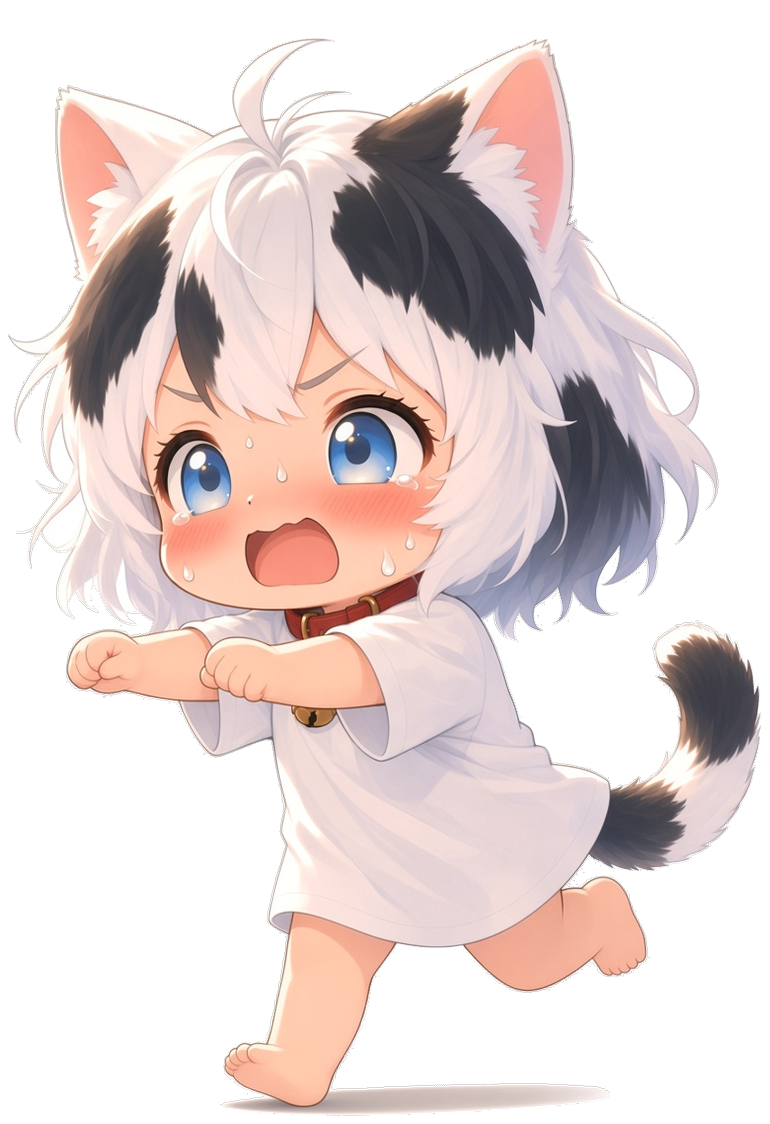
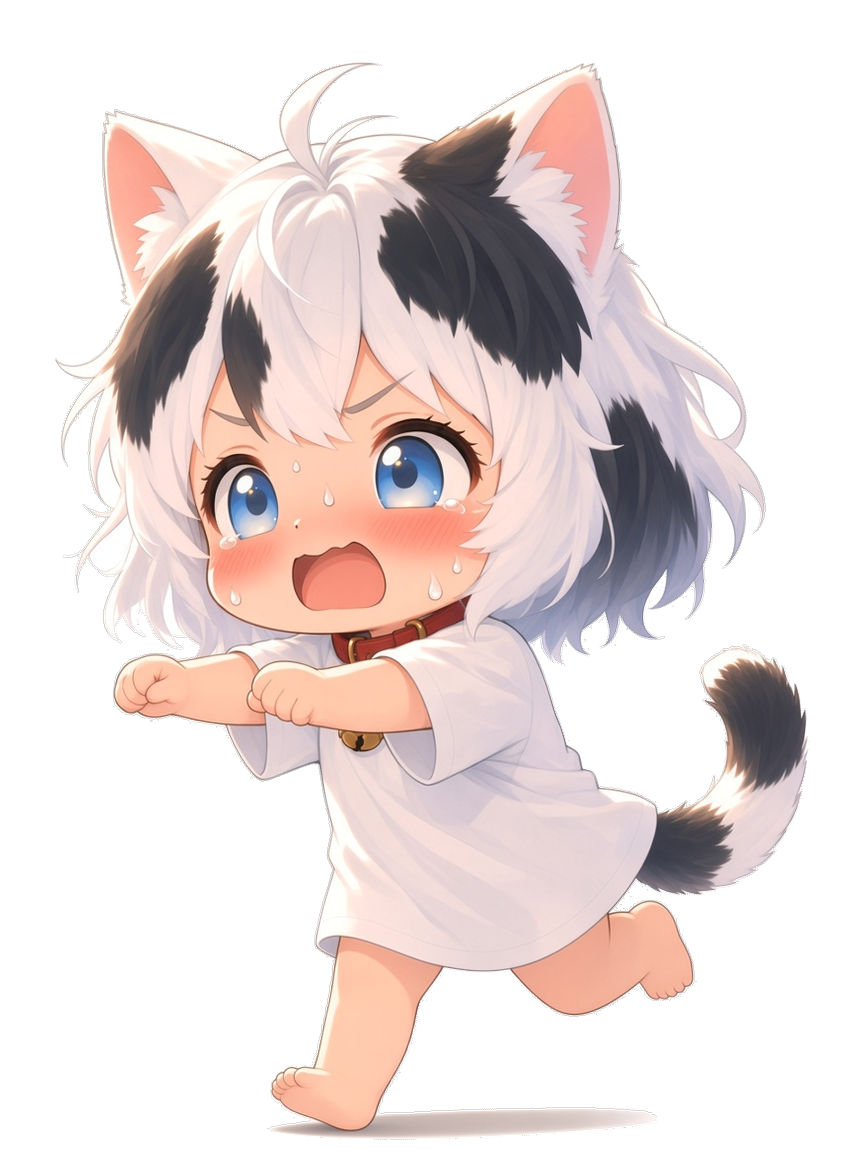
日常把走跑贴纸垫进站姿画布，并改阳台落点和呼吸。

diff --git a/养成游戏-迷你猫娘-小委屈/web/app.js b/养成游戏-迷你猫娘-小委屈/web/app.js
@@ -73,16 +73,16 @@
     bow: "assets/bow-a.png?v=1",
   };
   var WALK_CYCLE = [
-    "assets/walk-1.png?v=step2",
-    "assets/walk-3.png?v=step2",
+    "assets/walk-1.png?v=pad1",
+    "assets/walk-3.png?v=pad1",
   ];
   var RUN_CYCLE = [
-    "assets/run-1.png?v=qrun1",
-    "assets/run-2.png?v=qrun1",
-    "assets/run-3.png?v=qrun1",
-    "assets/run-4.png?v=qrun1",
+    "assets/run-1.png?v=pad1",
+    "assets/run-2.png?v=pad1",
+    "assets/run-3.png?v=pad1",
+    "assets/run-4.png?v=pad1",
   ];
-  var PANT_CYCLE = ["assets/pant-a.png?v=run1", "assets/pant-b.png?v=run1"];
+  var PANT_CYCLE = ["assets/pant-a.png?v=pad1", "assets/pant-b.png?v=pad1"];
   var BOW_CYCLE = ["assets/bow-a.png?v=1", "assets/bow-b.png?v=1"];
   var BOW_FRAME_MS = 340;
   var STAND_CYCLE = ["assets/stand.png?v=head1", "assets/stand-b.png?v=head1"];

diff --git a/养成游戏-迷你猫娘-小委屈/web/index.html b/养成游戏-迷你猫娘-小委屈/web/index.html
@@ -4,7 +4,7 @@
     <meta charset="utf-8" />
     <meta name="viewport" content="width=device-width, initial-scale=1" />
     <title>小委屈 · 日常</title>
-    <link rel="stylesheet" href="style.css?v=map31" />
+    <link rel="stylesheet" href="style.css?v=map32" />
   </head>
   <body>
     <div class="wrap">
@@ -116,7 +116,7 @@
       </div>
     </div>
     <script src="life.js?v=map19"></script>
-    <script src="house.js?v=map22"></script>
+    <script src="house.js?v=map23"></script>
     <script src="app.js?v=map44"></script>
   </body>
 </html>

diff --git a/养成游戏-迷你猫娘-小委屈/web/style.css b/养成游戏-迷你猫娘-小委屈/web/style.css
@@ -217,7 +217,7 @@ body {
 .girl-breath {
   display: block;
   transform-origin: 50% 92%;
-  animation: chibi-breathe 2.8s cubic-bezier(0.37, 0, 0.63, 1) infinite;
+  animation: chibi-breathe 5.6s cubic-bezier(0.37, 0, 0.63, 1) infinite;
   backface-visibility: hidden;
 }
 
@@ -276,10 +276,10 @@ body {
 @keyframes chibi-breathe {
   0%,
   100% {
-    transform: translateY(0.35%) scale(1.012, 0.988);
+    transform: scale(1.012, 0.988);
   }
   50% {
-    transform: translateY(-1.8%) scale(0.988, 1.012);
+    transform: scale(0.988, 1.012);
   }
 }
 

diff --git a/养成游戏-迷你猫娘-小委屈/web/house.js b/养成游戏-迷你猫娘-小委屈/web/house.js
@@ -40,12 +40,12 @@
       girlLieW: "16%",
       map: { x: 52, y: 76 },
       spots: {
-        center: { x: 50, y: 50 },
+        center: { x: 58, y: 64 },
         pot: { x: 72, y: 58 },
         corner: { x: 32, y: 58 },
-        door: { x: 50, y: 62 },
+        door: { x: 32, y: 78 },
       },
-      floor: { x0: 30, y0: 48, x1: 80, y1: 74 },
+      floor: { x0: 28, y0: 56, x1: 76, y1: 80 },
       gate: { x: 8, y: 78, w: 84, h: 22, to: "living", label: "回客厅" },
     },
   };

diff --git a/养成游戏-迷你猫娘-小委屈/web/check_stickers.py b/养成游戏-迷你猫娘-小委屈/web/check_stickers.py
@@ -1,0 +1,212 @@
+"""日常贴纸画布。站姿 864×1152 是尺子。
+
+竖着的贴纸（站、走、跑、坐、喘气、作揖）必须同一张画布。
+网页按宽度铺图，画布一窄、一高，人就会被撑大。
+
+新图先做成 864×1152 透明底，脚离底大约 12px，头宽跟 stand.png 接近。
+已经裁窄的图可以：
+
+    python check_stickers.py --normalize
+
+检查：
+
+    python check_stickers.py
+    python -m unittest check_stickers
+"""
+
+from __future__ import annotations
+
+import argparse
+import sys
+import unittest
+from pathlib import Path
+
+from PIL import Image, ImageDraw
+
+ASSETS = Path(__file__).resolve().parent / "assets"
+CANVAS = (864, 1152)
+FOOT_INSET = 12
+FOOT_INSET_MIN = 4
+FOOT_INSET_MAX = 24
+ALPHA = 12
+HEAD_FRAC = 0.38
+HEAD_TOL = 0.12
+
+UPRIGHT = [
+    "stand.png",
+    "stand-b.png",
+    "sit.png",
+    "sit-b.png",
+    "walk-1.png",
+    "walk-3.png",
+    "run-1.png",
+    "run-2.png",
+    "run-3.png",
+    "run-4.png",
+    "pant-a.png",
+    "pant-b.png",
+    "bow-a.png",
+    "bow-b.png",
+]
+
+
+def load(name: str) -> Image.Image:
+    return Image.open(ASSETS / name).convert("RGBA")
+
+
+def opaque_bbox(im: Image.Image) -> tuple[int, int, int, int] | None:
+    mask = im.getchannel("A").point(lambda v: 255 if v > ALPHA else 0)
+    return mask.getbbox()
+
+
+def head_width(im: Image.Image, bbox: tuple[int, int, int, int]) -> int:
+    x0, y0, x1, y1 = bbox
+    hy1 = y0 + max(1, int((y1 - y0) * HEAD_FRAC))
+    mask = im.getchannel("A").point(lambda v: 255 if v > 20 else 0)
+    head = mask.crop((x0, y0, x1, hy1)).getbbox()
+    if not head:
+        return 0
+    return head[2] - head[0]
+
+
+def measure(name: str) -> dict:
+    im = load(name)
+    w, h = im.size
+    bbox = opaque_bbox(im)
+    if not bbox:
+        raise SystemExit(f"{name}: 全透明")
+    x0, y0, x1, y1 = bbox
+    return {
+        "name": name,
+        "w": w,
+        "h": h,
+        "bbox": bbox,
+        "bw": x1 - x0,
+        "bh": y1 - y0,
+        "head": head_width(im, bbox),
+        "foot": h - y1,
+    }
+
+
+def fit_to_canvas(im: Image.Image) -> Image.Image:
+    cw, ch = CANVAS
+    src = im.convert("RGBA")
+    bw, bh = src.size
+    scale = min(1.0, cw / bw, (ch - FOOT_INSET) / bh)
+    if scale < 1.0:
+        nw = max(1, round(bw * scale))
+        nh = max(1, round(bh * scale))
+        src = src.resize((nw, nh), Image.Resampling.LANCZOS)
+    bbox = opaque_bbox(src)
+    if not bbox:
+        raise SystemExit("normalize: 全透明")
+    x0, y0, x1, y1 = bbox
+    dx = (cw - (x1 - x0)) // 2 - x0
+    dy = (ch - FOOT_INSET) - y1
+    out = Image.new("RGBA", CANVAS, (0, 0, 0, 0))
+    out.alpha_composite(src, (dx, dy))
+    clipped = opaque_bbox(out)
+    if not clipped:
+        raise SystemExit("normalize: 贴完之后空了")
+    if clipped[0] <= 0 or clipped[1] <= 0 or clipped[2] >= cw or clipped[3] >= ch:
+        # 贴边可以，溢出画布不行
+        if clipped[0] < 0 or clipped[1] < 0 or clipped[2] > cw or clipped[3] > ch:
+            raise SystemExit(f"normalize: 溢出 {clipped}")
+    return out
+
+
+def normalize(names: list[str]) -> list[str]:
+    changed = []
+    for name in names:
+        im = load(name)
+        if im.size == CANVAS:
+            continue
+        out = fit_to_canvas(im)
+        dest = ASSETS / name
+        out.save(dest, "PNG", optimize=True)
+        changed.append(name)
+    return changed
+
+
+def check(names: list[str]) -> int:
+    stand = measure("stand.png")
+    if (stand["w"], stand["h"]) != CANVAS:
+        print(f"stand.png 必须是 {CANVAS[0]}×{CANVAS[1]}，现在 {stand['w']}×{stand['h']}")
+        return 1
+    stand_head_ratio = stand["head"] / stand["w"]
+    errors = []
+    rows = []
+    for name in names:
+        m = measure(name)
+        rows.append(m)
+        if (m["w"], m["h"]) != CANVAS:
+            errors.append(f"{name}: 画布 {m['w']}×{m['h']}，要 {CANVAS[0]}×{CANVAS[1]}")
+            continue
+        if not (FOOT_INSET_MIN <= m["foot"] <= FOOT_INSET_MAX):
+            errors.append(f"{name}: 脚离底 {m['foot']}px，要 {FOOT_INSET_MIN}–{FOOT_INSET_MAX}")
+        ratio = m["head"] / m["w"]
+        drift = abs(ratio - stand_head_ratio) / stand_head_ratio
+        if drift > HEAD_TOL:
+            errors.append(
+                f"{name}: 头宽占画布 {ratio:.3f}，站姿 {stand_head_ratio:.3f}，差 {drift:.0%}（上限 {HEAD_TOL:.0%}）"
+            )
+    print(
+        f"{'file':16} {'canvas':>11} {'head':>5} {'head/W':>7} {'foot':>5} {'bbox-h':>7}"
+    )
+    for m in rows:
+        print(
+            f"{m['name']:16} {m['w']:4}×{m['h']:<4} {m['head']:5} {m['head']/m['w']:7.3f} {m['foot']:5} {m['bh']:7}"
+        )
+    if errors:
+        print()
+        for line in errors:
+            print("FAIL", line)
+        return 1
+    print()
+    print(f"OK  {len(names)} 张竖贴纸，画布 {CANVAS[0]}×{CANVAS[1]}，头跟站姿对齐。")
+    return 0
+
+
+def main(argv: list[str] | None = None) -> int:
+    if hasattr(sys.stdout, "reconfigure"):
+        try:
+            sys.stdout.reconfigure(encoding="utf-8")
+        except Exception:
+            pass
+    parser = argparse.ArgumentParser(description="检查日常竖贴纸是不是同一张画布")
+    parser.add_argument(
+        "--normalize",
+        action="store_true",
+        help="把不是 864×1152 的竖贴纸垫进这张画布，脚对齐站姿",
+    )
+    args = parser.parse_args(argv)
+    missing = [n for n in UPRIGHT if not (ASSETS / n).is_file()]
+    if missing:
+        print("缺文件:", ", ".join(missing))
+        return 1
+    if args.normalize:
+        changed = normalize(UPRIGHT)
+        if changed:
+            print("已垫画布:", ", ".join(changed))
+        else:
+            print("没有要垫的图。")
+    return check(UPRIGHT)
+
+
+class TestStickerCanvas(unittest.TestCase):
+    def test_game_assets_match_stand(self):
+        self.assertEqual(check(UPRIGHT), 0)
+
+    def test_narrow_walk_pads_to_canvas(self):
+        im = Image.new("RGBA", (770, 1124), (0, 0, 0, 0))
+        ImageDraw.Draw(im).ellipse((80, 40, 690, 1100), fill=(255, 240, 230, 255))
+        out = fit_to_canvas(im)
+        self.assertEqual(out.size, CANVAS)
+        bbox = opaque_bbox(out)
+        self.assertIsNotNone(bbox)
+        self.assertGreaterEqual(bbox[3], CANVAS[1] - FOOT_INSET_MAX)
+        self.assertLessEqual(bbox[3], CANVAS[1] - FOOT_INSET_MIN)
+
+
+if __name__ == "__main__":
+    sys.exit(main())

diff --git a/养成游戏-迷你猫娘-小委屈/README.md b/养成游戏-迷你猫娘-小委屈/README.md
@@ -8,6 +8,8 @@
 pip install pillow
 ```
 
+日常竖贴纸（站、走、跑、坐、喘气、作揖）画布必须是 `864×1152`。换图之后在 `web/` 跑 `python check_stickers.py`。
+
 能玩的主循环改成网页日常房间，设计见 `html日常.md`。Python 窗口仍能播第一章，新日常不要往那扇窗上加。
 
 过日子打开 `打开日常.bat`，进 `web/` 房子页。画面在左，右侧是管理栏。点她摸摸，点饭盆倒粮。栏里切客厅 / 阳台，看饥饿和档案。沙发和桌子只是底图。
